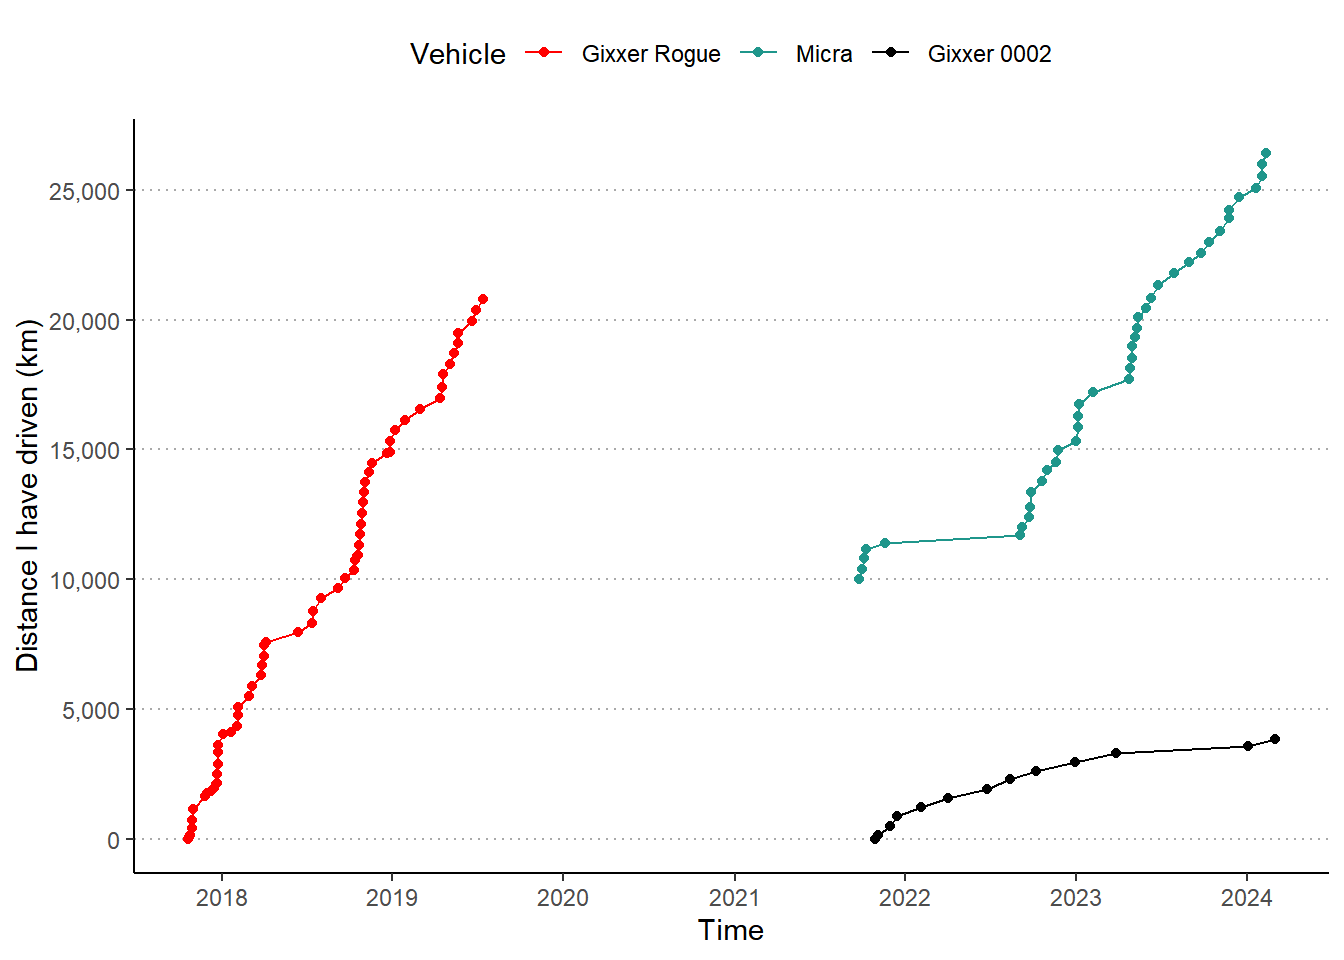
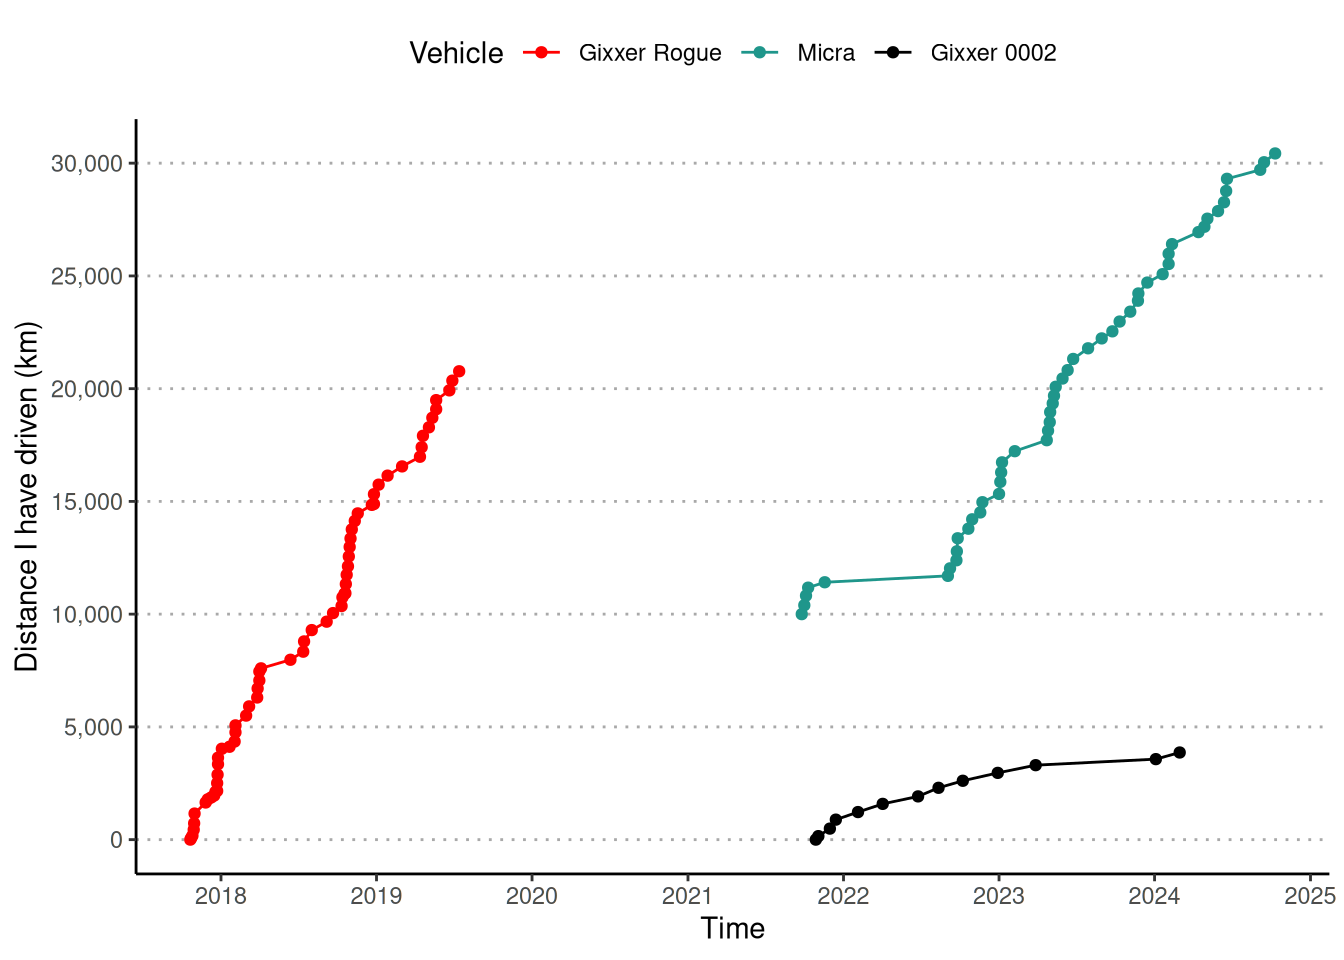
updated vehicle register (last year's Micra)

diff --git a/content/kartrix/Vehicle register/index.md b/content/kartrix/Vehicle register/index.md
@@ -1,6 +1,6 @@
 ---
 title: "Vehicle register"
-date: "2024-03-31"
+date: "2025-07-06"
 draft: false
 subtitle: ""
 output: blogdown::html_page
@@ -23,7 +23,7 @@ I have loved cars from the time I can remember, whether it was our family cars i
 
 Much more recently, I have been fortunate enough to actually drive/ride a fair bit myself. And, following my dad's advice, I made it a habit to maintain a fuel log for our own vehicles. I decided it would be fun to collate these datasets and explore some basic yet fun summaries. 
 
-***Note:*** *Page last updated on 2024-04-02, at which time vehicle logs were last updated on 2024-04-01.*
+***Note:*** *Page last updated on 2025-07-06, at which time vehicle logs were last updated on 2025-07-07.*
 
 ## Overall stats {.tabset}
 
@@ -34,7 +34,7 @@ Much more recently, I have been fortunate enough to actually drive/ride a fair b
 {{< panel name="Grand summary" >}}
 
 <table>
-<caption>Table 1: My overall driving stats, including exact figures from logged data and approximate figures of unlogged driving in both own and other vehicles.</caption>
+<caption><span id="tab:unnamed-chunk-1"></span>Table 1: (\#tab:unnamed-chunk-1)My overall driving stats, including exact figures from logged data and approximate figures of unlogged driving in both own and other vehicles.</caption>
  <thead>
   <tr>
    <th style="text-align:left;">  </th>
@@ -46,9 +46,9 @@ Much more recently, I have been fortunate enough to actually drive/ride a fair b
 <tbody>
   <tr>
    <td style="text-align:left;min-width: 15em; font-weight: bold;"> Distance driven (km) </td>
-   <td style="text-align:left;min-width: 6em; "> 41,047 </td>
+   <td style="text-align:left;min-width: 6em; "> 45,068 </td>
    <td style="text-align:left;min-width: 6em; "> 15,000 </td>
-   <td style="text-align:left;min-width: 6em; "> 56,047 </td>
+   <td style="text-align:left;min-width: 6em; "> 60,068 </td>
   </tr>
 </tbody>
 </table>
@@ -59,7 +59,7 @@ Much more recently, I have been fortunate enough to actually drive/ride a fair b
 {{< panel name="Vehicle leaderboard" >}}
 
 <table>
-<caption>Table 2: Leaderboard of own vehicles I have driven, based on total distance driven (km). Ranking priority is higher for logged distance than for total, owing to the uncertainty associated with approximation.</caption>
+<caption><span id="tab:unnamed-chunk-2"></span>Table 3: (\#tab:unnamed-chunk-2)Leaderboard of own vehicles I have driven, based on total distance driven (km). Ranking priority is higher for logged distance than for total, owing to the uncertainty associated with approximation.</caption>
  <thead>
   <tr>
    <th style="text-align:right;"> Rank </th>
@@ -80,9 +80,9 @@ Much more recently, I have been fortunate enough to actually drive/ride a fair b
   <tr>
    <td style="text-align:right;min-width: 6em; "> 2 </td>
    <td style="text-align:left;min-width: 12em; "> Micra </td>
-   <td style="text-align:left;min-width: 6em; "> 16,411 </td>
+   <td style="text-align:left;min-width: 6em; "> 20,432 </td>
    <td style="text-align:left;min-width: 6em; "> 10,000 </td>
-   <td style="text-align:left;min-width: 6em; "> 26,411 </td>
+   <td style="text-align:left;min-width: 6em; "> 30,432 </td>
   </tr>
   <tr>
    <td style="text-align:right;min-width: 6em; "> 3 </td>
@@ -101,7 +101,7 @@ Much more recently, I have been fortunate enough to actually drive/ride a fair b
 
 <div class="figure">
 <img src="{{< blogdown/postref >}}index_files/figure-html/unnamed-chunk-3-1.png" alt="Graph showing the driving I logged in each vehicle over time. Each point is a fuelling event, when the date, odometer reading, fuel quantity and fuel amount would be logged. Note that Micra does not start from zero, due to the considerable unlogged driving I did in it prior to 2021." width="672" />
-<p class="caption">Figure 1: Graph showing the driving I logged in each vehicle over time. Each point is a fuelling event, when the date, odometer reading, fuel quantity and fuel amount would be logged. Note that Micra does not start from zero, due to the considerable unlogged driving I did in it prior to 2021.</p>
+<p class="caption"><span id="fig:unnamed-chunk-3"></span>Figure 1: Graph showing the driving I logged in each vehicle over time. Each point is a fuelling event, when the date, odometer reading, fuel quantity and fuel amount would be logged. Note that Micra does not start from zero, due to the considerable unlogged driving I did in it prior to 2021.</p>
 </div>
 
 {{< /panel >}}
@@ -136,9 +136,9 @@ The family car that we first got in 2015. It is unfortunately an automatic (CVT)
 
 **Delivery taken date**: 2015-04-??
 
-**Total distance driven**: 26,411 km
+**Total distance driven**: 30,432 km
 
-**Last odometer reading**: 76,854 km
+**Last odometer reading**: 87,840 km
 
 ## Suzuki Gixxer 150 aka 0002 {#0002}
 
